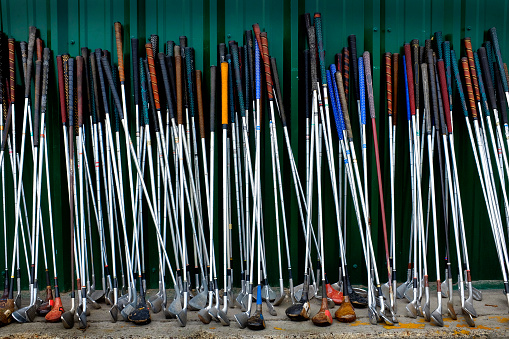
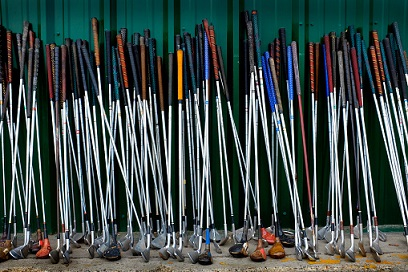
Add files via upload

diff --git a/about.html b/about.html
@@ -23,7 +23,7 @@
 
 <header> 
 
-<a href="index.html"><img src="images/alloutgolf.jpg" alt="all-out golf"/></a>
+<a href="index.html"><img src="images/alloutgolf.jpg" alt="company logo"/></a>
 
 </header> 
 
@@ -40,22 +40,40 @@
 	 
 <article id = "main"> 
 
-<h2>Products</h2>
-<img src="images/golfclubs3.jpg" alt="golf clubs" class="clubs" />
-	<p>We have a wide variety of new and used clubs for you.  We have top of the line clubs for a fair price.  Come in today and our staff can help you find the club you need or a whole set!  See below all of the brands and types we carry.</p>
-	<p>-Titelist</p>			
-	<p>-Callaway</p>			
-	<p>-PXG</p>					
-	<p>-Cobra</p>				
-	<p>-Mizuno</p>				
-	<p>-Nike</p>
-	<p>-Adams</p>
-	<p>-Ping</p>
-<p>*Be sure to ask about our club fitting</p>
-<iframe width="420" height="315" src="https://www.youtube.com/embed/X1iMarOhCes"> </iframe>
+<h2>About Us</h2>
+	<p>We have a short history here at All-Out Golf.  We opened our doors in 2015 as a Pre-Owned golf products store, and then added a website the following year in 2016. We currently have only one location but are working on a location in Omaha. In 2018 we decided to start selling new clubs along with our Pre-Owned.  Here at All-Out Golf we try to keep our prices lower than our competition.  We offer several deal when it comes to buying Pre-Owned golf clubs to make sure that you don't break the bank trying to get what is right for you.</p>
 	
+	
+<table/>
+	<tr>
+		<th>Club</th>
+		<th>All-Out Golf</th>
+		<th>Golf Galaxy</th>
+		<th>Austad's</th>
+	</tr>
+	<tr>
+		<td>TaylorMade SIM2 Driver</td>
+		<td>$499.99</td>
+		<td>$529.99</td>
+		<td>$529.99</td>
+	</tr>
+		<td>Callaway Apex 21 Iron Set</td>
+		<td>$1049.99</td>
+		<td>$1299.99</td>
+		<td>$1099.99</td>
+	<tr>
+		<td>Scotty Cameron Putter</td>
+		<td>$349.99</td>
+		<td>$399.99</td>
+		<td>$399.99</td>
+	</tr>
+</table>
+
+<img src="images/golfclubs2.jpg" alt="golf clubs" class="several" />
 
 
+	
+		
 
 
 

diff --git a/contact.html b/contact.html
@@ -23,7 +23,7 @@
 
 <header> 
 
-<a href="index.html"><img src="images/alloutgolf.jpg" alt="all-out golf"/></a>
+<a href="index.html"><img src="images/alloutgolf.jpg" alt="company logo"/></a>
 
 </header> 
 
@@ -40,23 +40,23 @@
 	 
 <article id = "main"> 
 
-<h2>Products</h2>
-<img src="images/golfclubs3.jpg" alt="golf clubs" class="clubs" />
-	<p>We have a wide variety of new and used clubs for you.  We have top of the line clubs for a fair price.  Come in today and our staff can help you find the club you need or a whole set!  See below all of the brands and types we carry.</p>
-	<p>-Titelist</p>			
-	<p>-Callaway</p>			
-	<p>-PXG</p>					
-	<p>-Cobra</p>				
-	<p>-Mizuno</p>				
-	<p>-Nike</p>
-	<p>-Adams</p>
-	<p>-Ping</p>
-<p>*Be sure to ask about our club fitting</p>
-<iframe width="420" height="315" src="https://www.youtube.com/embed/X1iMarOhCes"> </iframe>
+<h2>Contact Us</h2>
+	<p>Don't have time to stop in store for a club fitting or have questions about our products? Go ahead and call, email, or text the contact information below. </p>
 	
-
-
-
+	<p>-Call or text at (402)-806-6919</p>
+	<p>-Email at alloutgolf@gmail.com</p>
+	<p>-To get information on a club fitting, please fill out the form below.</p>
+	<form>
+	<label for="fname"> First name: </label><br>
+	<input type="text" id="fname" name="fname"><br>
+	<label for="lname"> Last name: </label><br>
+	<input type="text" id="lname" name="lname"><br>
+	<label for="phone"> Phone number: </label><br>
+	<input type="text" id="phone" name="phone"><br>
+	<label for="email"> Email: </label><br>
+	<input type="text" id="email" name="email"><br>
+	<input type="submit" value="Submit">
+	</form>
 
 
 </article> <!-- end main -->

diff --git a/css/styles.css b/css/styles.css
@@ -147,3 +147,13 @@ footer a:hover {
 .clubs {
 	padding-left: 85px;
 }
+.several {
+	padding-left: 50 px;
+}
+
+
+table, th, td {
+	border: 5px solid black;
+	border-collapse: collapse;
+	padding-top: 10px;
+}
